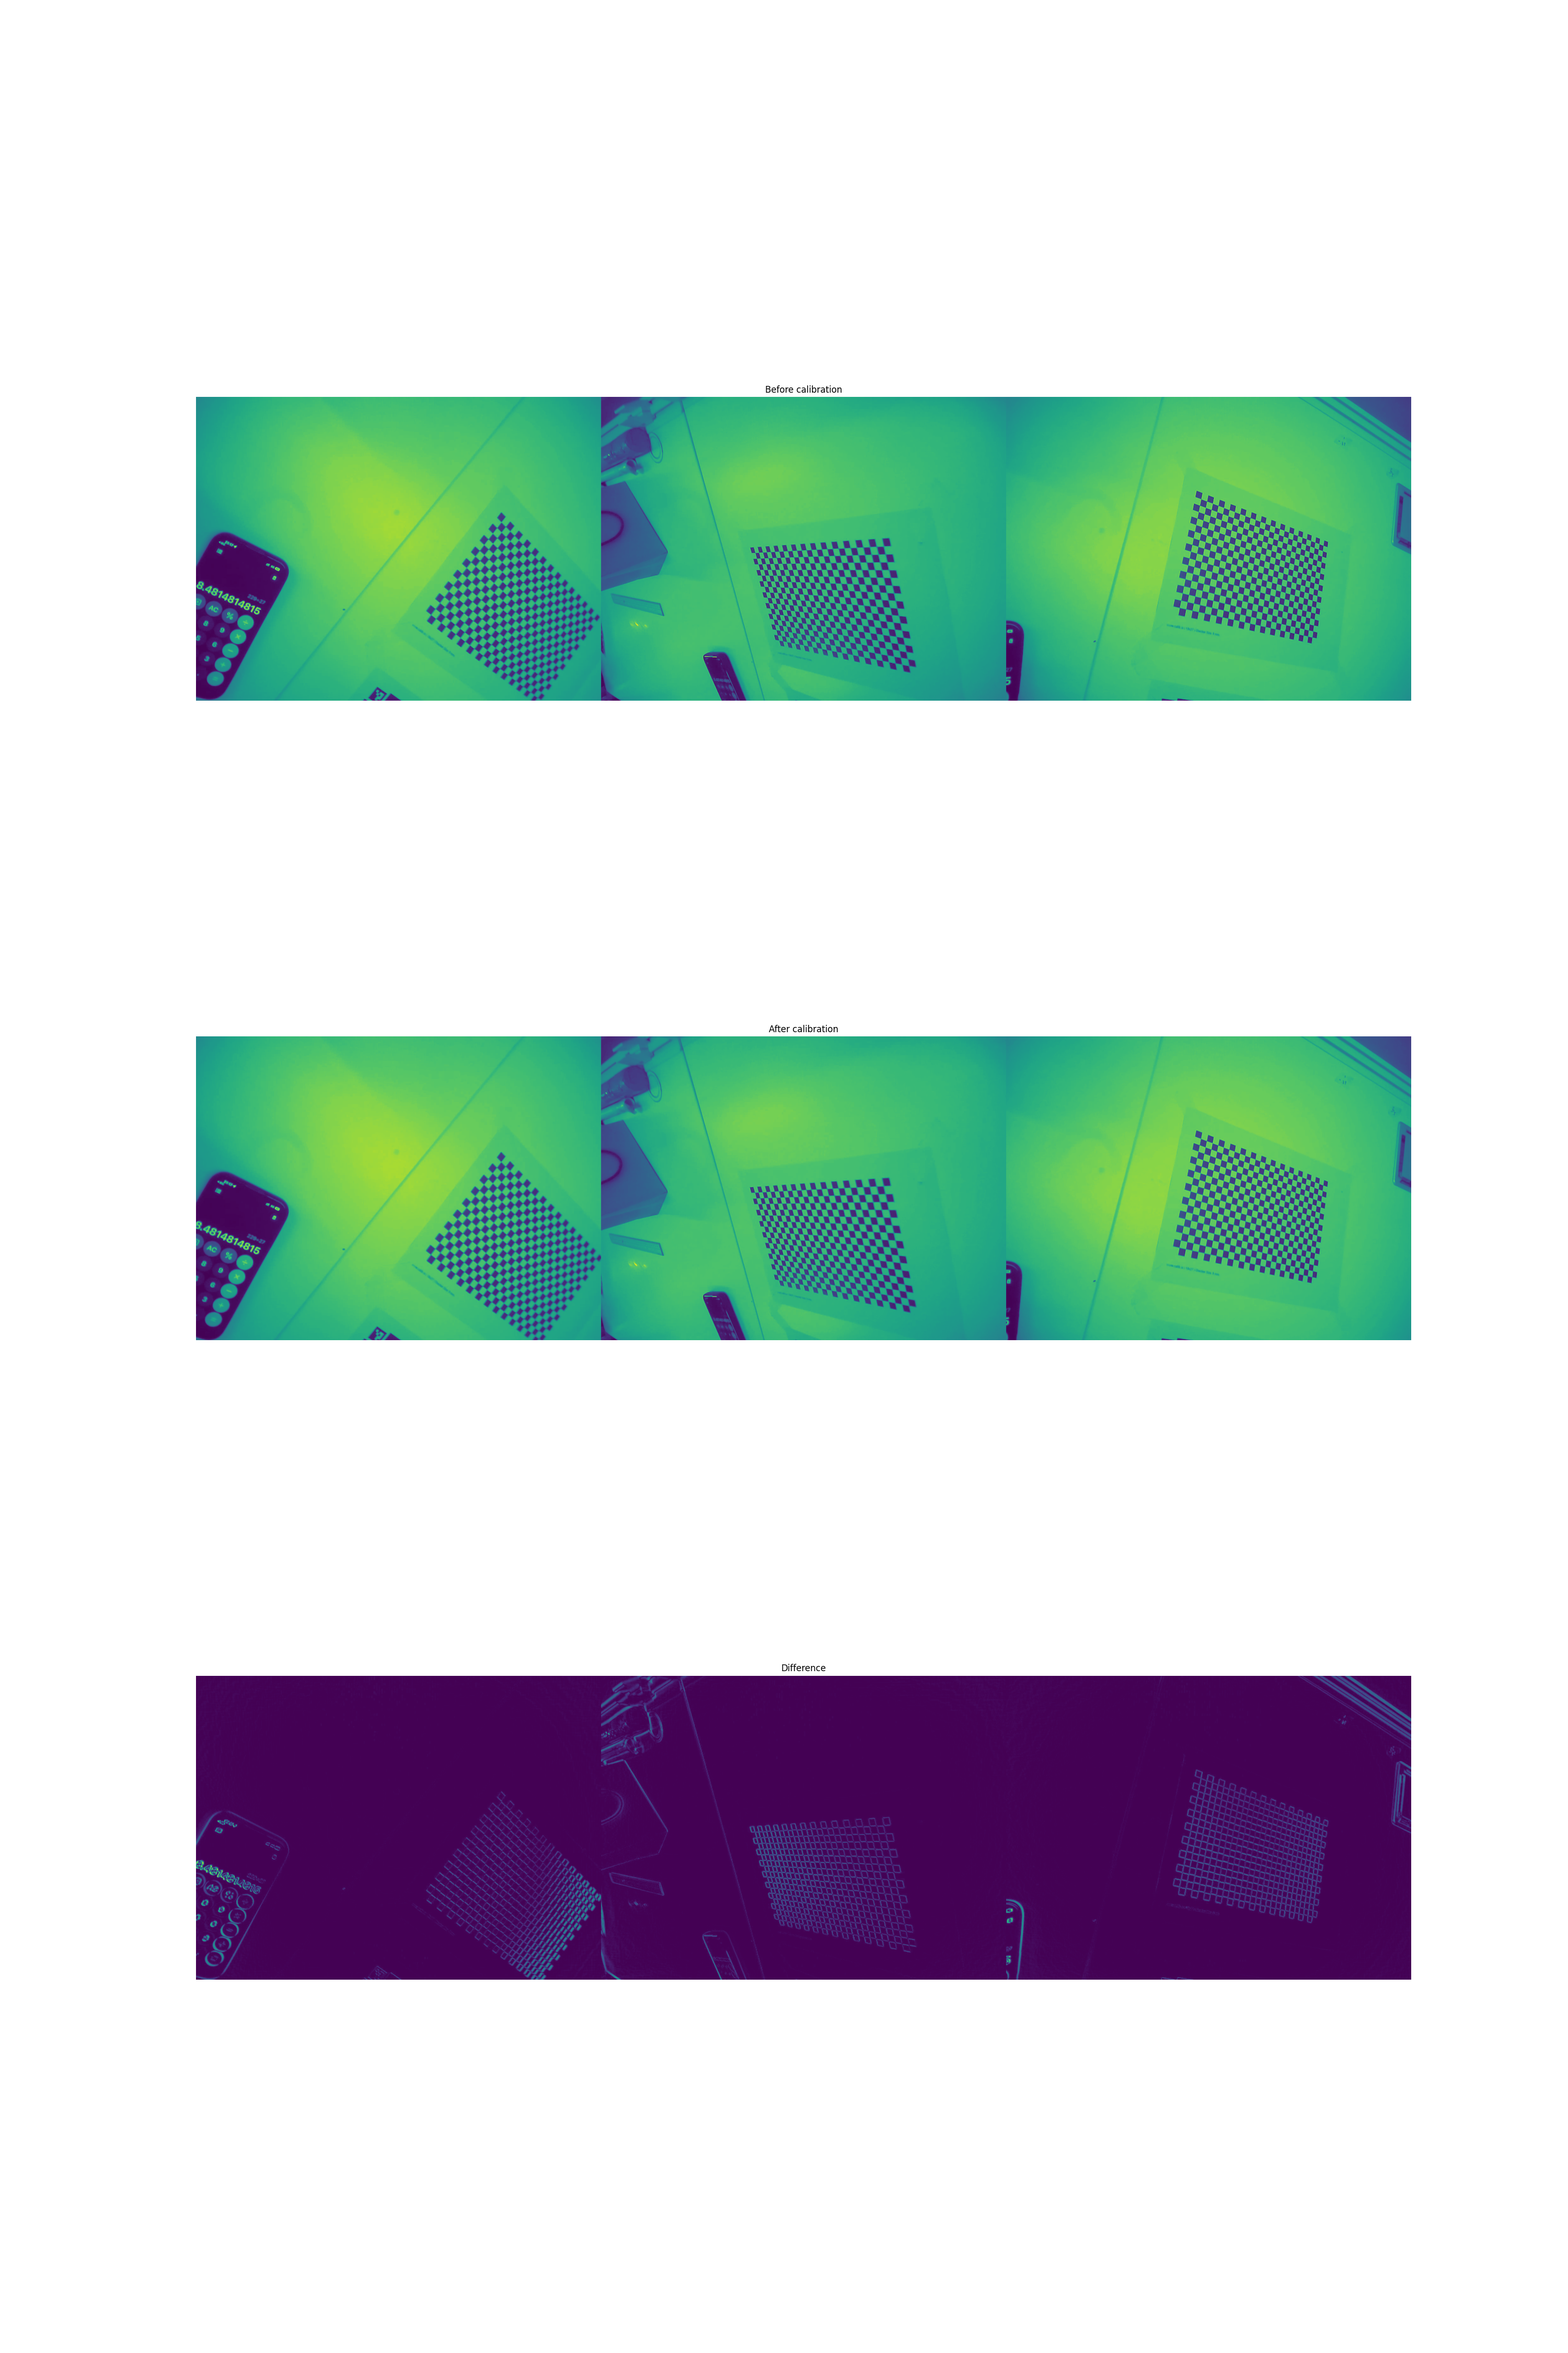
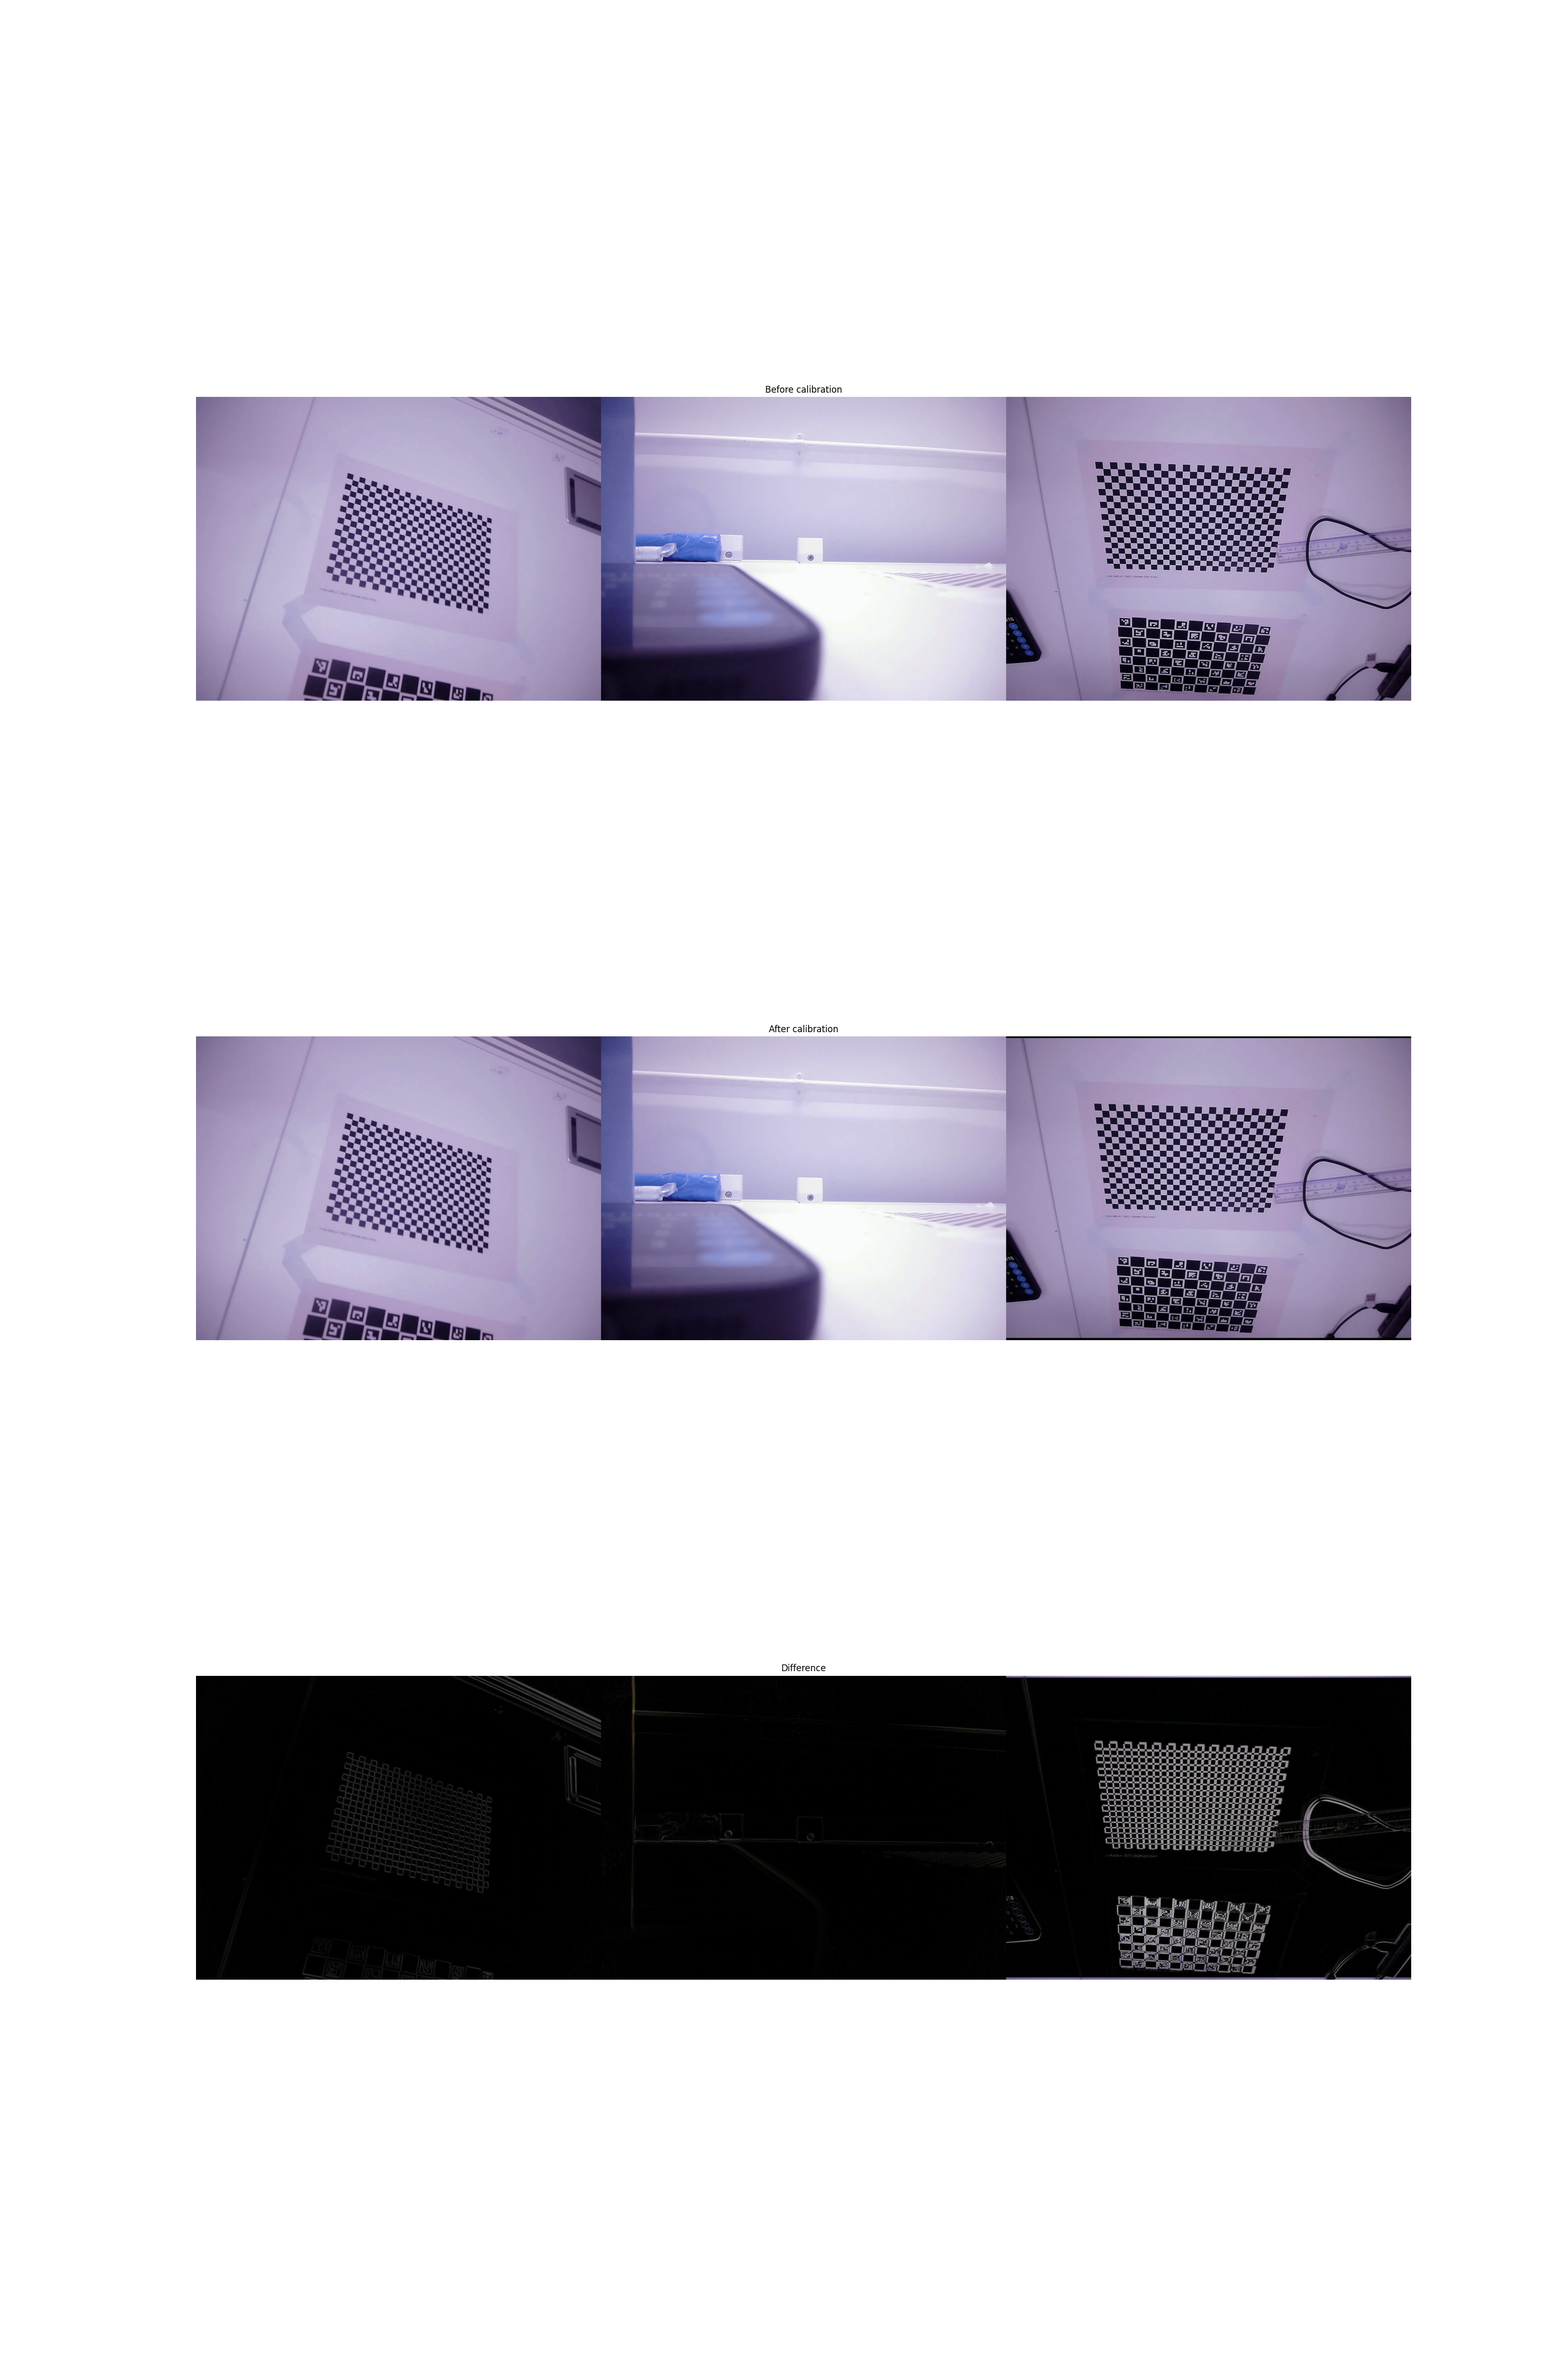
Remove pycache

Changed region(s): [[0.124, 0.6844, 0.899, 0.84], [0.124, 0.4356, 0.899, 0.5911], [0.124, 0.1556, 0.899, 0.3111]]

diff --git a/Callibration/visualize_int.py b/Callibration/visualize_int.py
@@ -54,7 +54,6 @@ def undistort_comparison():
     while True:
         file_name = image_path + '/' + images[random_index]
         image_before = cv2.imread(file_name)
-        image_before = cv2.cvtColor(image_before, cv2.COLOR_BGR2GRAY)
         if settings.internal_callibration_type == 'single':
             camera_name = file_name.split('/')[-1].split('.')[0].split('_')[0]
             if camera_name not in settings.cameras:
